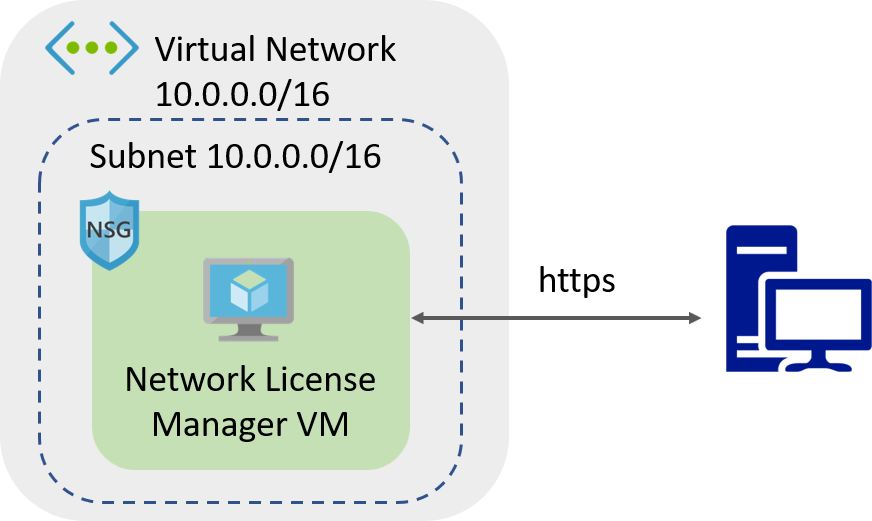
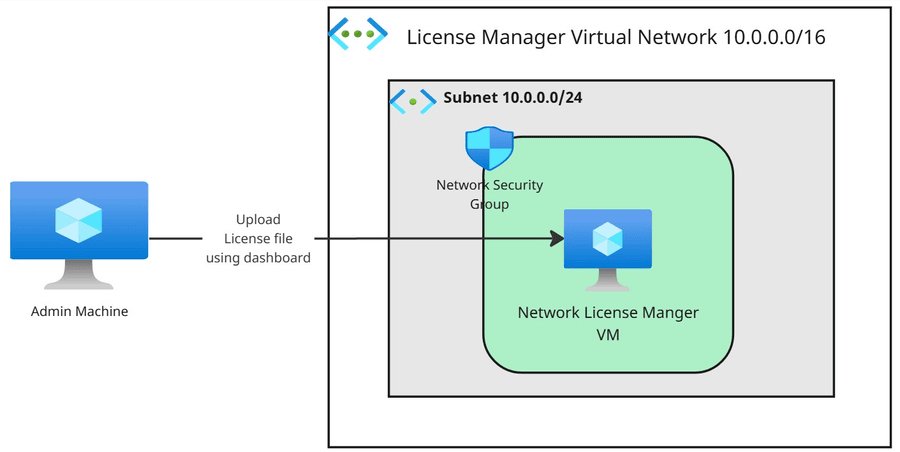
R2026a release!

diff --git a/releases/v1/latest/README.md b/releases/v1/latest/README.md
@@ -4,12 +4,12 @@
 
 Click the **Deploy to Azure** button below to deploy the cloud resources on Azure&reg;. This opens the Azure Portal in your web browser. You can deploy the resources in a new virtual network or in an existing virtual network.
 
-<a href="https://portal.azure.com/#create/Microsoft.Template/uri/https%3A%2F%2Fraw.githubusercontent.com%2Fmathworks-ref-arch%2Flicense-manager-for-matlab-on-azure%2Fmaster%2Freleases%2Fv1%2Flatest%2Fazuredeploy.json" target="_blank"><img src="https://aka.ms/deploytoazurebutton"/></a></br></br>
+<a href="https://portal.azure.com/#create/Microsoft.Template/uri/https%3A%2F%2Fraw.githubusercontent.com%2Fmathworks-ref-arch%2Flicense-manager-for-matlab-on-azure%2Fmaster%2Freleases%2FR2026a%2Fazuredeploy-R2026a.json" target="_blank"><img src="https://aka.ms/deploytoazurebutton"/></a></br></br>
 
 
-> Cluster Platform: Windows Server 2019
+> VM Platform: Windows Server 2025
 
-> MATLAB&reg; Release: R2025b
+> MATLAB&reg; Release: R2026a
 
 ## Step 2. Configure the Cloud Resources
 
@@ -25,11 +25,9 @@ Clicking the **Deploy to Azure** button opens the "Custom deployment" page in yo
 | **Admin Password** | Admin password for the chosen username. This is used to login to the Network License Manager for MATLAB dashboard. |
 | **Existing Vnet Resource ID** | Use this optional parameter to specify the Resource ID of an existing virtual network to deploy your server into. Specify this parameter only when you deploy using the Existing Virtual Network option. |
 | **Existing Subnet Name** | Use this optional parameter to specify the name of an existing subnet within your virtual network to deploy your server into. Specify this parameter only when you deploy using the Existing Virtual Network option. |
-| **Create Public IP Address** | Choose whether to create a public IP address for the VM. |
+| **Create Public IP Address** | Choose whether to create a public IP address for the Network License Manager VM. |
 | **Image ID** | Optional Resource ID of a custom managed image in the target region. To use a prebuilt MathWorks image instead, leave this field empty. If you customize the build, for example by removing or modifying the included scripts, this can make the image incompatible with the provided ARM template. To ensure compatibility, modify the ARM template or image accordingly. |
 
-
-**NOTE**: The port and hostname of the network license manager must be reachable from all virtual machines running MATLAB. It is therefore recommended that you deploy into a subnet within the same virtual network as the network license manager.
 
 2. Tick the box to accept the Azure Marketplace terms and conditions.
 
@@ -40,7 +38,7 @@ Clicking the **Deploy to Azure** button opens the "Custom deployment" page in yo
 > **Note**: The Internet Explorer web browser is not supported for interacting with the dashboard.
 
 1. In the Deployments for your resource group, select the Microsoft.Template deployment created in step 2 and select the **Outputs** section.
-2. Copy the URL listed in the `NETWORKLICENSEMANAGERADDRESS` field. This is the HTTPS endpoint to the network license manager for MATLAB Dashboard.
+2. Copy the URL listed in the `NetworkLicenseManagerAddress` field. This is the HTTPS endpoint for the dashboard of the Network License Manager for MATLAB.
 
 # Step 4: Sign in to the Dashboard
 1. Paste the network license manager Address URL into a web browser.
@@ -63,10 +61,31 @@ You are now ready to use the network license manager on Azure.
 
 To configure your MATLAB products deployed in Azure to use the network license manager, see the product documentation. An example for MATLAB Parallel Server can be found at [MATLAB Parallel Server on Azure](https://github.com/mathworks-ref-arch/matlab-parallel-server-on-azure).
 
+# Step 6: Connect Clients to the Network License Manger 
+
+To license MATLAB clients using the Network License Manager, ensure that the MATLAB clients are either in the same virtual network as the license manager VM, or in a [peered virtual network](https://learn.microsoft.com/en-us/azure/virtual-network/tutorial-connect-virtual-networks?tabs=portal). Before you deploy MATLAB clients, you must first deploy the Network License Manager and complete the previous steps in this guide.
+
+You connect your clients to the license manager using the syntax `port@hostname` or `port@ip-address`, where:
+- `port` is the server port the License Manager uses to listen for incoming requests (default: 27000).
+- `hostname` is the computer name of the License Manager server.
+- `ip-address` is the private IP address of the License Manager server.
+
+If you are using [MathWorks Reference Architectures for Azure](https://github.com/topics/matlab-azure) to deploy MATLAB or MATLAB Parallel Server virtual machines, specify the License Manager address using the `MATLAB License Manager` parameter. For example: `27000@10.0.0.4` or `270000@licenseserver`.
+
+Note: If you use `port@hostname` to license clients, ensure that the MATLAB Client VMs can resolve the `hostname` of the license server to its private IPv4 address. MathWorks recommends you use the `port@ip-address` syntax to license MATLAB clients to avoid name resolution failures.
+
+## Example Architecture
+
+The following diagram shows an example of architecture where the MATLAB client is in a peered network:
+
+![Networking Architecture](../../../img/License_Manager_Networking_Architecture.png?raw=true)
+
+In this example, the MATLAB client is configured to connect to the Network License Manager using the private IP address of the License Manager server.
+
 # Additional Information
 
-## No Public IP Address
-If your deployment requires only a private IP address configuration, you have the option to exclude a public IP address for the virtual machine (VM). Ensure that the IP address is specified in the `Client IP Address List` parameter for the jumpbox VM or any client that will access the License Manager VM or its dashboard.
+## Use Private IP Address
+If your deployment does not require the Network License Manager VM to have a Public IPv4 address, set the `createPublicIPAddress` parameter to `No`. Specify the private IPv4 addresses of the clients that will access the VM or the License Manager dashboard in the `Client IP Address List` parameter.
 
 ## Delete Your Cloud Resources
 You can remove the Resource Group and all associated resources when you are done with them. Note that you cannot recover resources once they are deleted.
@@ -91,6 +110,6 @@ If your resource group fails to deploy, check the Deployments section of the Res
 
 ----
 
-Copyright 2021-2025 The MathWorks, Inc.
+Copyright 2021-2026 The MathWorks, Inc.
 
 ----

diff --git a/README.md b/README.md
@@ -26,11 +26,11 @@ To view instructions for deploying the Network License Manager for MATLAB refere
 
 ## Learn about Architecture
 
-The network license manager and the resources it requires are created using [Azure Resource Manager templates](https://docs.microsoft.com/en-gb/azure/azure-resource-manager/resource-group-overview). The architecture of the server resources created by the template is illustrated in Figure 2. For more information about each resource, see the [Azure template reference.](https://docs.microsoft.com/en-us/azure/templates/)
+The network license manager and the resources it requires are created using [Azure Resource Manager templates](https://docs.microsoft.com/en-gb/azure/azure-resource-manager/resource-group-overview). The architecture of the server resources created by the template is illustrated in Figure 1. For more information about each resource, see the [Azure template reference.](https://docs.microsoft.com/en-us/azure/templates/)
 
 ![Server Architecture](img/FlexServer_in_Azure_architecture.png?raw=true)
 
-*Figure 2: Network License Manager Architecture*
+*Figure 1: Network License Manager Architecture*
 
 The following resources are created.
 
@@ -55,6 +55,6 @@ To request assistance or additional features, contact [MathWorks Technical Suppo
 
 ----
 
-Copyright 2021-2025 The MathWorks, Inc.
+Copyright 2021-2026 The MathWorks, Inc.
 
 ----

diff --git a/LICENSE.md b/LICENSE.md
@@ -4,7 +4,7 @@ The files in this GitHub repository refer to commercial software products and se
 
 The following license terms apply only to the files in this GitHub repository, including files in this folder and its subfolders, and do not apply to MathWorks Programs. References to “software” and “code” in the following license terms refer to the files in this GitHub repository.
 
-Copyright (c) 2025, The MathWorks, Inc.
+Copyright (c) 2026, The MathWorks, Inc.
 
 All rights reserved.
 